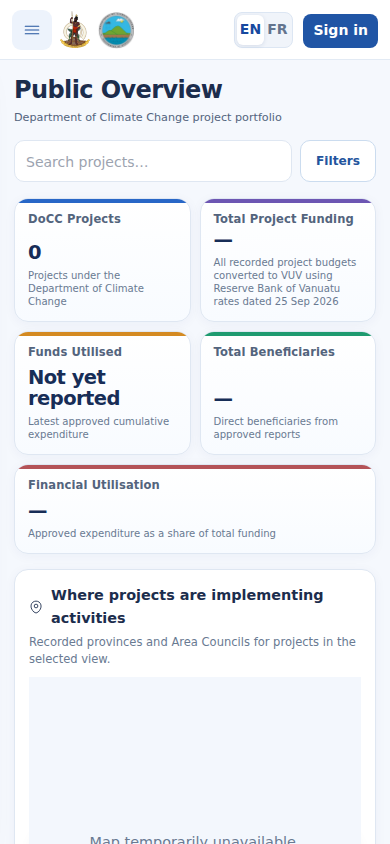
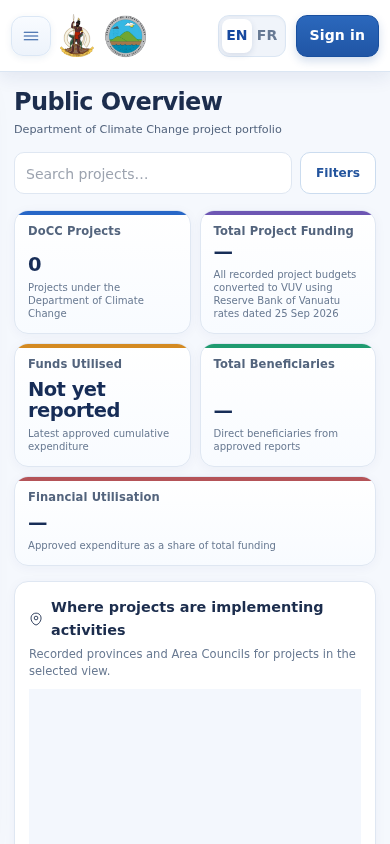
Polish responsive MERL header

Changed region(s): [[0.0308, 0.0, 0.9846, 0.8009], [0.2154, 0.9858, 0.7692, 1.0], [0.0615, 0.0308, 0.1231, 0.0616]]

diff --git a/frontend/src/pages/public-phone.css b/frontend/src/pages/public-phone.css
@@ -47,23 +47,30 @@
 }
 .pbd-mobile-signin,.pbd-mobile-login-heading,.pbd-filter-toggle,.pbd-login-backdrop,.pbd-mobile-login-layer{display:none}
 @media(max-width:560px){
-.dsh.pbd-root{grid-template-rows:60px minmax(0,1fr)!important;--workspace-header-h:60px}
-.dsh.pbd-root .dsh-head,.dsh.pbd-root .dsh-head:has(>.merl-partner-logos){display:flex!important;flex-wrap:nowrap!important;align-items:center!important;gap:8px!important;height:60px!important;min-height:60px!important;padding:0 12px!important;border-radius:0;background:#fff;box-shadow:none;border-bottom:1px solid #e2eaf4}
-.dsh.pbd-root .dsh-head>.dsh-hamburger,.dsh.pbd-root .dsh-head:has(>.merl-partner-logos)>.dsh-hamburger{display:inline-flex!important;position:relative!important;align-items:center;justify-content:center;width:38px;height:38px;min-width:38px;min-height:38px;margin:0;padding:0;border:0;border-radius:9px;background:#edf3fc;color:#20539d}
-.dsh.pbd-root .dsh-head>.dsh-head-actions,.dsh.pbd-root .dsh-head:has(>.merl-partner-logos)>.dsh-head-actions{display:flex!important;align-items:center;gap:5px;flex:0 0 auto!important;width:auto!important;min-width:0;max-width:none!important;margin:0 0 0 auto!important;grid-column:auto;grid-row:auto}
-.dsh.pbd-root .dsh-lang{display:flex!important;align-items:center;gap:0;padding:2px;border-radius:8px;background:#f0f4fa}.dsh.pbd-root .dsh-lang button{min-width:26px;height:30px;padding:0 3px;border:0;border-radius:6px;background:transparent;color:#63748e;font-size:.65rem;font-weight:800}.dsh.pbd-root .dsh-lang button[aria-pressed=true]{background:#fff;color:#1855aa}
-.dsh.pbd-root .pbd-mobile-signin{display:inline-flex;align-items:center;justify-content:center;min-height:34px;padding:0 10px;border:0;border-radius:8px;background:#2055a5;color:#fff;font:inherit;font-size:.68rem;font-weight:800;white-space:nowrap}
+.dsh.pbd-root{grid-template-rows:72px minmax(0,1fr)!important;--workspace-header-h:72px}
+.dsh.pbd-root .dsh-head,.dsh.pbd-root .dsh-head:has(>.merl-partner-logos){display:flex!important;position:sticky!important;top:0!important;z-index:90!important;flex-wrap:nowrap!important;align-items:center!important;gap:9px!important;height:72px!important;min-height:72px!important;padding:0 max(11px,env(safe-area-inset-right)) 0 max(11px,env(safe-area-inset-left))!important;border-radius:0;background:rgba(255,255,255,.97);box-shadow:0 5px 18px rgba(18,49,107,.09);border-bottom:1px solid #dbe6f3;backdrop-filter:saturate(150%) blur(12px);-webkit-backdrop-filter:saturate(150%) blur(12px)}
+.dsh.pbd-root .dsh-head>.dsh-hamburger,.dsh.pbd-root .dsh-head:has(>.merl-partner-logos)>.dsh-hamburger{display:inline-flex!important;position:relative!important;align-items:center;justify-content:center;width:44px;height:44px;min-width:44px;min-height:44px;margin:0;padding:0;border:1px solid #dbe7f5;border-radius:12px;background:linear-gradient(180deg,#f8fbff,#edf3fb);box-shadow:0 2px 7px rgba(25,72,133,.08);color:#20539d}
+.dsh.pbd-root .dsh-head>.dsh-head-actions,.dsh.pbd-root .dsh-head:has(>.merl-partner-logos)>.dsh-head-actions{display:flex!important;align-items:center;gap:6px;flex:0 0 auto!important;width:auto!important;min-width:0;max-width:none!important;margin:0 0 0 auto!important;grid-column:auto;grid-row:auto}
+.dsh.pbd-root .dsh-lang{display:flex!important;align-items:center;gap:1px;height:42px;padding:3px;border:1px solid #dbe6f3;border-radius:11px;background:#f0f4fa;box-shadow:inset 0 1px 2px rgba(18,49,107,.04)}.dsh.pbd-root .dsh-lang button{min-width:29px;height:34px;padding:0 4px;border:0;border-radius:8px;background:transparent;color:#687a94;font-size:.7rem;font-weight:800}.dsh.pbd-root .dsh-lang button[aria-pressed=true]{background:#fff;color:#1855aa;box-shadow:0 2px 6px rgba(18,49,107,.12)}
+.dsh.pbd-root .pbd-mobile-signin{display:inline-flex;align-items:center;justify-content:center;min-height:42px;padding:0 13px;border:1px solid #184f9f;border-radius:11px;background:linear-gradient(180deg,#2b68bc,#2055a5);box-shadow:0 4px 10px rgba(32,85,165,.2);color:#fff;font:inherit;font-size:.76rem;font-weight:800;letter-spacing:.01em;white-space:nowrap}
 .dsh.pbd-root .dsh-head .pbd-header-login,.dsh.pbd-root .dsh-head:has(>.merl-partner-logos) .pbd-header-login{display:none!important}
 .dsh.pbd-root .dsh-head .pbd-header-login.pbd-login-open,.dsh.pbd-root .dsh-head:has(>.merl-partner-logos) .pbd-header-login.pbd-login-open{display:block!important;position:fixed!important;left:12px;right:12px;top:max(76px,calc(env(safe-area-inset-top) + 16px));z-index:202;width:auto!important;max-width:420px!important;max-height:calc(100dvh - 100px);overflow-y:auto;margin:0 auto!important;padding:20px;border:1px solid #dce6f3;border-radius:18px;background:#fff;box-shadow:0 20px 60px #102a5066}
 .dsh.pbd-root .pbd-login-backdrop{display:block;position:fixed;inset:0;z-index:201;width:100%;border:0;background:#12294c99}.pbd-mobile-login-heading{display:flex;align-items:center;justify-content:space-between;margin-bottom:16px;color:#17365f;font-size:1rem}.pbd-mobile-login-heading button{width:36px;height:36px;min-width:36px;padding:0;border:0;border-radius:8px;background:#edf3fc;color:#294461;font-size:1.5rem}
 .pbd-header-login-fields{grid-template-columns:1fr!important;gap:12px!important}.pbd-header-login-fields button[type=submit]{grid-column:1!important;min-height:44px}.pbd-header-recovery-row{grid-template-columns:1fr!important}.pbd-header-login input{font-size:16px!important}
-.pbd-root .dsh-side{top:60px!important;height:calc(100dvh - 60px)!important}.pbd-root .pbd-overlay{top:60px}.pbd-root .dsh-scroll{padding:0!important;background:#f4f7fc}.pbd-root .pbd-view{padding:17px 14px calc(24px + env(safe-area-inset-bottom))!important}.pbd-root .pbd-title-row{margin:0 0 14px!important}.pbd-root .pbd-title-row h1{font-size:1.5rem!important;line-height:1.13}.pbd-root .pbd-title-row p{font-size:.7rem!important}
+.pbd-root .dsh-side{top:72px!important;height:calc(100dvh - 72px)!important}.pbd-root .pbd-overlay{top:72px}.pbd-root .dsh-scroll{padding:0!important;background:#f4f7fc}.pbd-root .pbd-view{padding:17px 14px calc(24px + env(safe-area-inset-bottom))!important}.pbd-root .pbd-title-row{margin:0 0 14px!important}.pbd-root .pbd-title-row h1{font-size:1.5rem!important;line-height:1.13}.pbd-root .pbd-title-row p{font-size:.7rem!important}
 .pbd-root .pbd-filters{display:grid!important;grid-template-columns:minmax(0,1fr) auto!important;align-items:center;gap:8px!important;margin:0 0 16px!important;padding:0!important;border:0!important;border-radius:0!important;background:transparent!important;box-shadow:none!important}.pbd-root .pbd-filters .pbd-search{grid-column:1!important;min-width:0}.pbd-root .pbd-filters .pbd-search input{height:42px!important;border-radius:10px!important;background:#fff;font-size:16px!important}.pbd-root .pbd-filters .pbd-filter-toggle{display:inline-flex;align-items:center;justify-content:center;grid-column:2;min-width:76px;height:42px!important;padding:0 10px!important;border:1px solid #cbdcef;border-radius:10px!important;background:#fff;color:#23549d;font-size:.76rem!important;font-weight:750}
 .pbd-root .pbd-filters>label:not(.pbd-search),.pbd-root .pbd-filters>.pbd-reset,.pbd-root .pbd-filters>.pbd-refresh{display:none!important}.pbd-root .pbd-filters.pbd-filters-open{padding:10px!important;border:1px solid #dfe8f4!important;border-radius:14px!important;background:#fff!important}.pbd-root .pbd-filters.pbd-filters-open>label:not(.pbd-search){display:flex!important;grid-column:1/-1;gap:5px;font-size:.7rem!important}.pbd-root .pbd-filters.pbd-filters-open select{height:42px!important;font-size:16px!important}.pbd-root .pbd-filters.pbd-filters-open>.pbd-reset,.pbd-root .pbd-filters.pbd-filters-open>.pbd-refresh{display:inline-flex!important;align-items:center;justify-content:center;grid-column:auto;height:40px!important;font-size:.76rem!important}
 .pbd-root .pbd-metrics{display:grid!important;grid-template-columns:repeat(2,minmax(0,1fr))!important;gap:9px!important;margin-bottom:15px!important}.pbd-root .pbd-metric{min-height:124px!important;padding:13px!important;border-radius:14px!important}.pbd-root .pbd-metric>span{font-size:.72rem!important;line-height:1.25}.pbd-root .pbd-metric>strong{margin:auto 0 6px!important;font-size:clamp(1.12rem,5vw,1.65rem)!important}.pbd-root .pbd-metric>small{font-size:.63rem!important;line-height:1.3!important}.pbd-root .pbd-metric:last-child:nth-child(odd){grid-column:1/-1;min-height:90px!important}
 .pbd-root .pbd-section{margin-bottom:12px!important;padding:14px!important;border-radius:14px!important}.pbd-root .pbd-section-head>div>span{font-size:.9rem!important}.pbd-root .pbd-section-head p{font-size:.72rem!important}.pbd-root .pub-leaflet-wrap{height:330px!important}.pbd-root .pbd-area-directory{max-height:240px!important}.pbd-root .dsh-mobile-nav{display:none!important}
 }
-@media(max-width:360px){.dsh.pbd-root .dsh-head{padding-inline:9px!important}}
+@media(max-width:360px){
+  .dsh.pbd-root{grid-template-rows:68px minmax(0,1fr)!important;--workspace-header-h:68px}
+  .dsh.pbd-root .dsh-head,.dsh.pbd-root .dsh-head:has(>.merl-partner-logos){height:68px!important;min-height:68px!important;gap:7px!important;padding-inline:9px!important}
+  .dsh.pbd-root .dsh-head>.dsh-hamburger,.dsh.pbd-root .dsh-head:has(>.merl-partner-logos)>.dsh-hamburger{width:40px;height:40px;min-width:40px;min-height:40px;border-radius:10px}
+  .dsh.pbd-root .dsh-lang{height:38px;padding:2px;border-radius:9px}.dsh.pbd-root .dsh-lang button{min-width:25px;height:32px;padding:0 2px;font-size:.64rem}
+  .dsh.pbd-root .pbd-mobile-signin{min-height:38px;padding:0 9px;border-radius:9px;font-size:.68rem}
+  .pbd-root .dsh-side{top:68px!important;height:calc(100dvh - 68px)!important}.pbd-root .pbd-overlay{top:68px}
+}
 
 /* Mount the phone sign-in above the application shell. Keeping a fixed modal
    inside Safari's sticky header can clip it to the header's stacking context. */

diff --git a/frontend/src/header-two-logo.css b/frontend/src/header-two-logo.css
@@ -96,7 +96,7 @@
     grid-column: 1 !important;
     grid-row: 1 !important;
     align-self: center !important;
-    gap: 6px !important;
+    gap: 8px !important;
     width: auto !important;
     max-width: none !important;
   }
@@ -109,17 +109,17 @@
   }
 
   .dsh .dsh-head > .merl-partner-logos > .merl-partner-crest {
-    width: 30px !important;
-    height: 38px !important;
-    max-width: 30px !important;
-    max-height: 38px !important;
+    width: 34px !important;
+    height: 44px !important;
+    max-width: 34px !important;
+    max-height: 44px !important;
   }
 
   .dsh .dsh-head > .merl-partner-logos > .merl-partner-docc {
-    width: 38px !important;
-    height: 38px !important;
-    max-width: 38px !important;
-    max-height: 38px !important;
+    width: 44px !important;
+    height: 44px !important;
+    max-width: 44px !important;
+    max-height: 44px !important;
     object-fit: cover !important;
     object-position: left center !important;
   }
